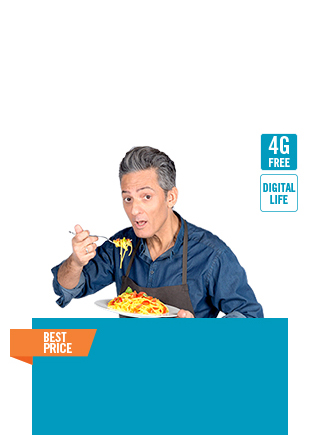
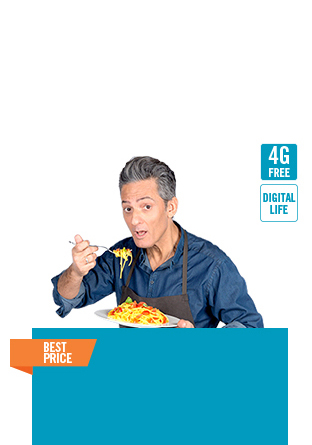
fullbg fix

Changed region(s): [[0.0288, 0.3287, 0.9231, 0.8667], [0.8077, 0.2989, 0.9808, 0.508]]

diff --git a/html_blocchi/scss/wind_partials/vetrine/vetrina_bundle_new.scss b/html_blocchi/scss/wind_partials/vetrine/vetrina_bundle_new.scss
@@ -199,8 +199,8 @@
         &.bgBundleAndPrice {
           .cardsOffer__single--text {
             height: 12.55em;
-            margin-bottom: 0;
-            padding-top: 9.7em;
+            margin-bottom: 10px;
+            padding-top: 10.4em;
             &--bundle {
               margin-bottom: 0;
               height: 38px;
@@ -216,7 +216,7 @@
             }
           }
           .cardsOffer__single--price__container {
-            height: 4.375em;
+            height: 3.8em;
             &--priceDiscounted {
               display: inline-block;
               margin-right: 4%;
@@ -270,6 +270,9 @@
             &--bgContainer {
               position: relative;
               margin-bottom: 10px;
+              img{
+                max-width:100%;
+              }
             }
           }
         }
